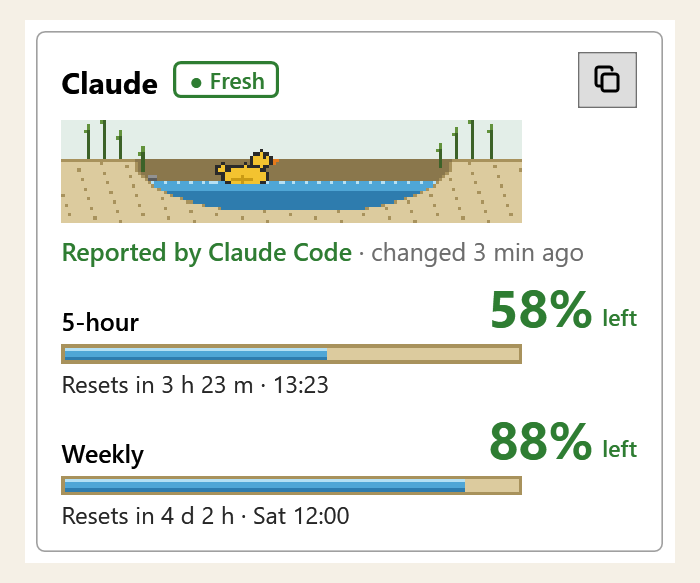
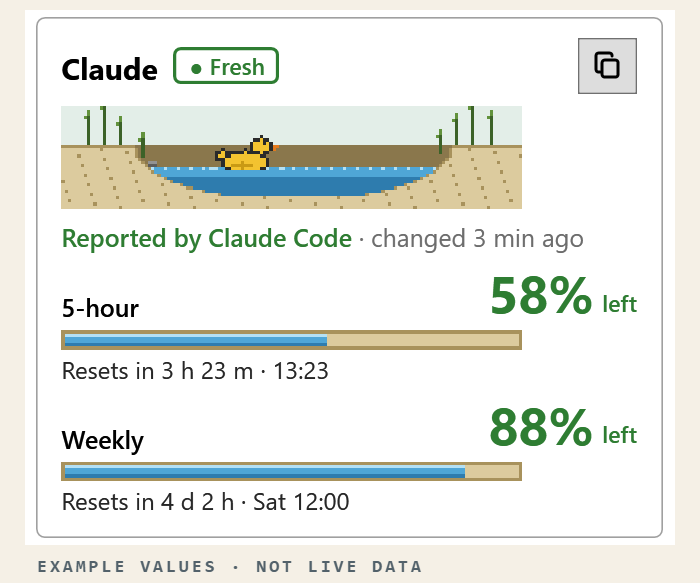
PS-WEB-001 pass 2: shorten the QuotaDuck note and mark the phone image
- Both pages now use the same shorter note: "Example values, not live
  data. One panel each for Claude Code and Codex. Not affiliated with or
  endorsed by Anthropic or OpenAI."
- The single-panel image used on small screens carries the same
  "EXAMPLE VALUES · NOT LIVE DATA" line as the wide image. The panel
  itself is unchanged and unscaled; same 700 x 583 canvas.

Changed region(s): [[0.03, 0.0, 0.96, 0.6792], [0.03, 0.6792, 0.99, 0.988]]

diff --git a/index.html b/index.html
@@ -160,7 +160,7 @@
                         <span class="feature-meta">Windows app in development</span>
                         <h3>QuotaDuck</h3>
                         <p>Two ponds. Your quota at a glance. A lightweight Windows utility for viewing Claude Code and Codex usage limits without leaving your desktop.</p>
-                        <p class="feature-note">Preview shows example values, not live data. The app has one panel each for Claude Code and Codex. QuotaDuck is an independent project, not affiliated with or endorsed by Anthropic or OpenAI.</p>
+                        <p class="feature-note">Example values, not live data. One panel each for Claude Code and Codex. Not affiliated with or endorsed by Anthropic or OpenAI.</p>
                         <span class="feature-action">See apps &amp; tools <span aria-hidden="true">→</span></span>
                     </div>
                 </a>

diff --git a/games/index.html b/games/index.html
@@ -128,7 +128,7 @@
                         Two ponds. Your quota at a glance. A lightweight Windows utility for viewing
                         Claude Code and Codex usage limits without leaving your desktop.
                     </p>
-                    <p class="art-credit">Preview shows example values, not live data. The app has one panel each for Claude Code and Codex. QuotaDuck is an independent project. It is not affiliated with or endorsed by Anthropic or OpenAI.</p>
+                    <p class="art-credit">Example values, not live data. One panel each for Claude Code and Codex. Not affiliated with or endorsed by Anthropic or OpenAI.</p>
                     <span class="status">Windows app in development</span>
                 </div>
             </article>
